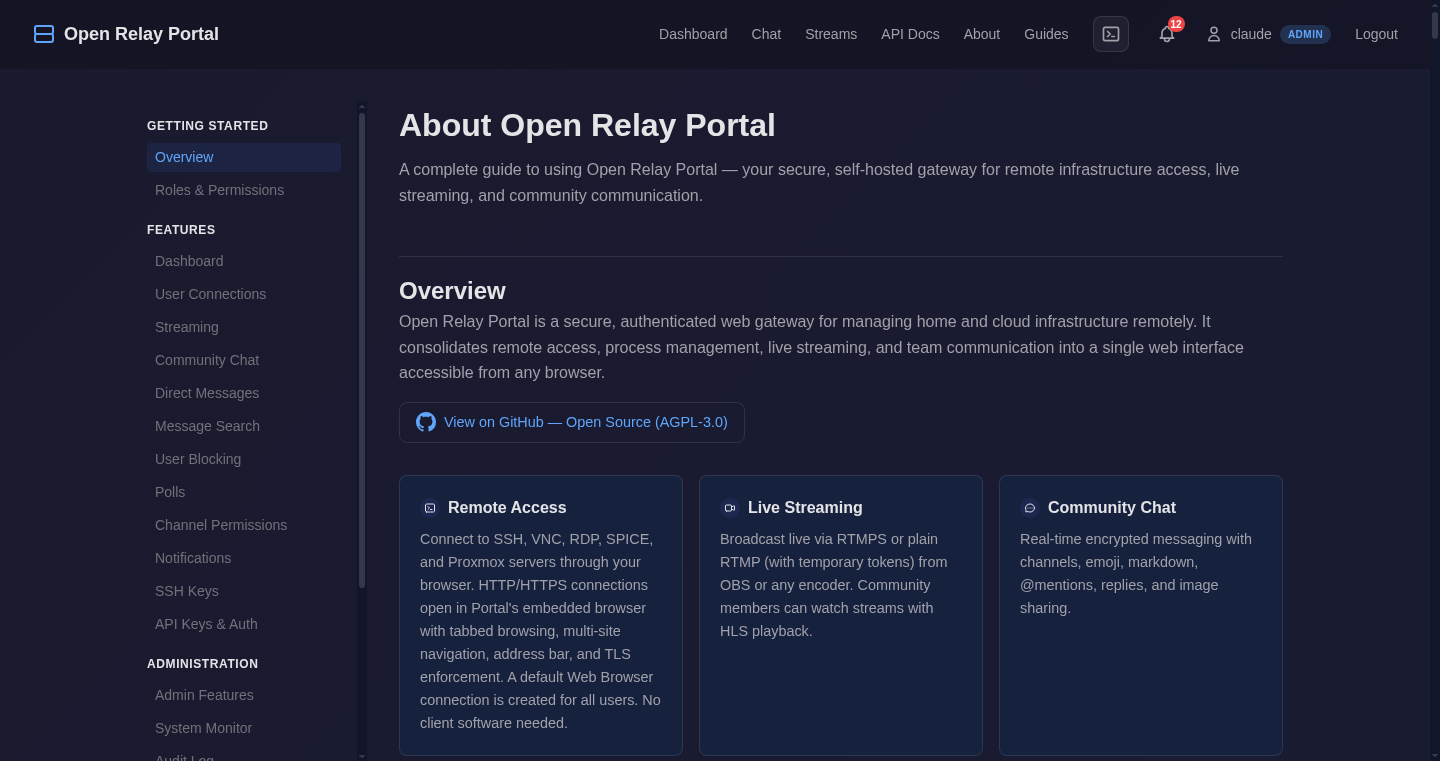
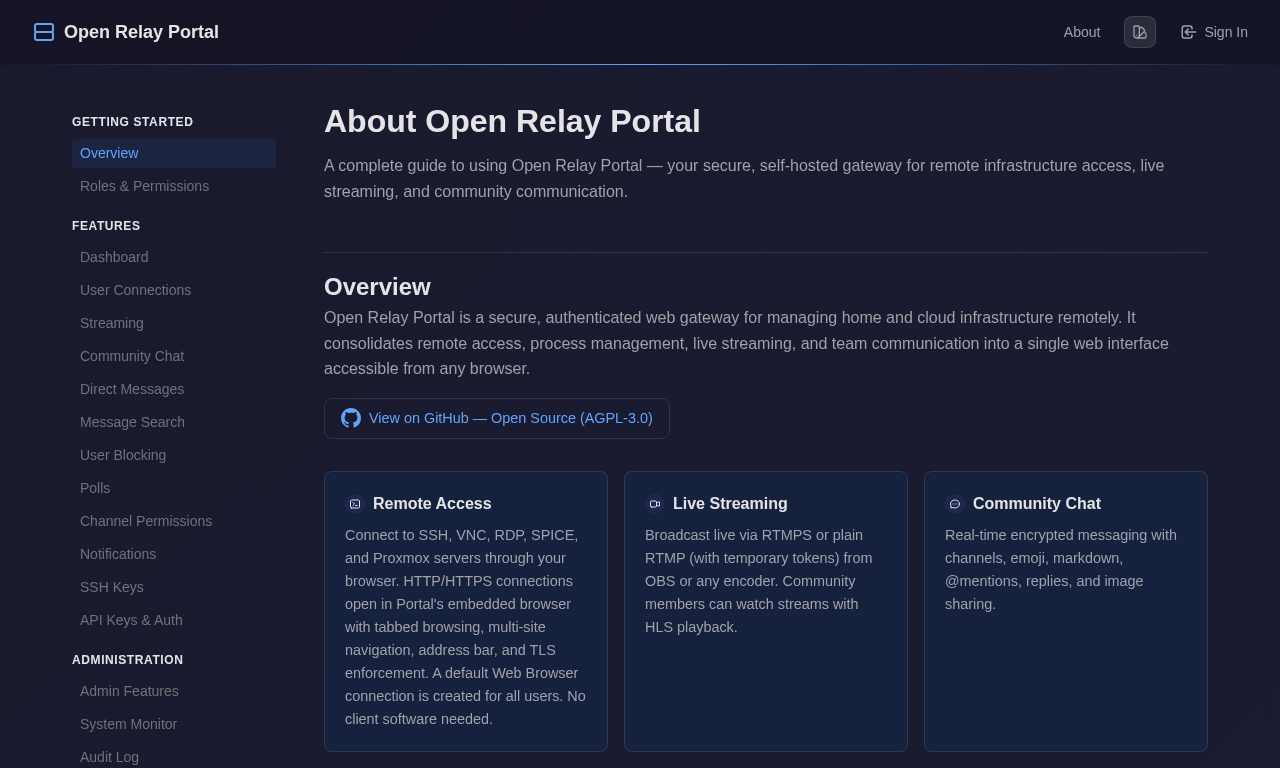
v1.4.0: docs and screenshots for visual theming release
Update README: add Visual Theming section to feature list; expand screenshots
section with theme picker, light mode, and high contrast screenshots.

Refresh all 17 screenshots to show current UI with theme switcher button
in navbar. Add new shots: themes.png (picker dropdown), dashboard-light.png,
dashboard-hc.png.

diff --git a/README.md b/README.md
@@ -63,6 +63,9 @@ See what's running on your server at a glance — active processes, systemd serv
 ### Data Retention
 Set policies for how long chat messages, DMs, notifications, activity logs, and expired tokens are kept. Automatic cleanup runs on a schedule (default every 6 hours) with optional database compaction. Run cleanup on demand anytime from the admin panel.
 
+### Visual Theming
+Ten built-in themes — switch with the palette icon in the navbar. **Dark** (navy, default), **Black** (OLED), **Grey**, **Slate**, **Blue**, **Green**, **Red**, **Orange**, **Light**, and **High Contrast**. Your preference persists across sessions via localStorage and applies before the first paint so there's no flash.
+
 ### Administration
 Manage users with a clear role hierarchy — Super Admin, Admin, Moderator, and User. Create invite codes to let people register (daily rotating, single-use, or time-limited). Require two-factor authentication. Issue API keys for automation. Manage SSH keys, monitor traffic patterns, and scan for vulnerabilities. All administration happens through the admin panel in your browser.
 
@@ -85,7 +88,13 @@ Here are a few ways people use Open Relay Portal:
 ## Screenshots
 
 ![Dashboard](docs/screenshots/dashboard.png)
-*Dashboard — My Connections, Quick Add bar, services, streams, and system stats*
+*Dashboard — Services, connections, streams, VODs, quick access, and system stats*
+
+![Theme Picker](docs/screenshots/themes.png)
+*Theme Switcher — 10 built-in themes: Dark, Black, Grey, Slate, Light, Blue, Green, Red, Orange, High Contrast*
+
+![Light Theme](docs/screenshots/dashboard-light.png)
+*Light Theme — full light mode with dark text and blue accent*
 
 ![Chat](docs/screenshots/chat.png)
 *Encrypted Chat — Channels, reactions, threads, @mentions, voice chat*
@@ -100,10 +109,10 @@ Here are a few ways people use Open Relay Portal:
 *Admin Panel — Server stats, traffic metrics, Shodan scanner, system resources*
 
 ![File Manager](docs/screenshots/files.png)
-*File Manager — Browse and manage server files (Admin Panel tab)*
+*File Manager — Browse and manage server files*
 
 ![System Monitor](docs/screenshots/sysmon.png)
-*System Monitor — Processes, systemd services, network interfaces (Admin Panel tab)*
+*System Monitor — Processes, systemd services, network interfaces*
 
 ![Streams](docs/screenshots/streams.png)
 *Community Streams — Live streaming with HLS playback and VOD recording*
@@ -116,6 +125,9 @@ Here are a few ways people use Open Relay Portal:
 
 <details>
 <summary>More screenshots</summary>
+
+![High Contrast Theme](docs/screenshots/dashboard-hc.png)
+*High Contrast Theme — maximum readability with yellow accent on pure black*
 
 ![Login](docs/screenshots/login.png)
 *Login page with TOTP 2FA support*
